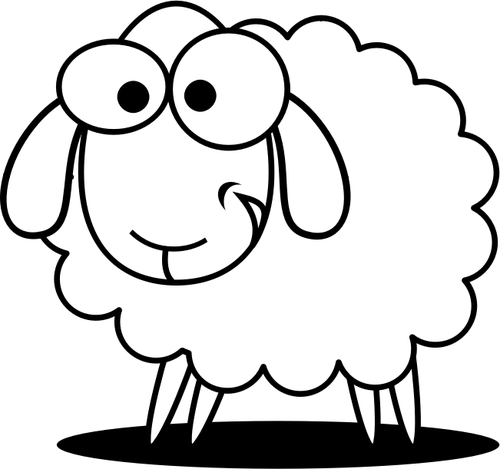
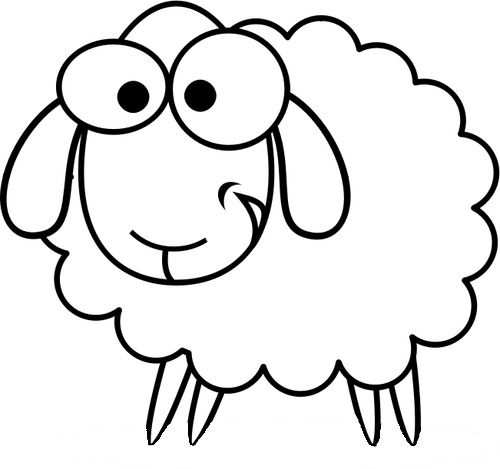
sfx and movement added

Changed region(s): [[0.09, 0.8955, 1.0, 1.0]]

diff --git a/main.py b/main.py
@@ -1,7 +1,17 @@
 from tkinter import *
 from gui_button import GuiButton
+from playsound import playsound
+# using playsound 1.2.2
 
 VERSION = "v1.0.0"
+BLUE1 = "#F9F7F7"
+BLUE2 = "#DBE2EF"
+BLUE3 = "#3F72AF"
+BLUE4 = "#112D4E"
+SFX = "sfx/sheep_noise.mp3"
+
+timer = None
+move_stop = False
 
 
 def hallo_welt():
@@ -9,15 +19,45 @@ def hallo_welt():
     print("Hello World")
 
 
+def check_position() -> bool:
+    global move_stop
+    if canvas_animal.coords(canvas_image)[0] <= -250:
+        canvas_animal.move(canvas_image, 1000, 0)
+        return True
+    elif canvas_animal.coords(canvas_image)[0] == 250 and move_stop is False:
+        move_stop = True
+        playsound(SFX)
+        return True
+    elif canvas_animal.coords(canvas_image)[0] == 250 and move_stop:
+        move_stop = False
+        return False
+    else:
+        return True
+
+
+def move_image():
+    global timer
+    if check_position():
+        # true: timer start and move image
+        canvas_animal.move(canvas_image, -10, 0)
+        print(canvas_animal.coords(canvas_image))
+        timer = root.after(60, func=move_image)
+    else:
+        # false: timer stop and no more image moving
+        root.after_cancel(timer)
+
+
 # GUI creation
 root = Tk()
 root.title(f"Sheepy {VERSION}")
-root.config(padx=50, pady=15)
+root.config(pady=15, bg=BLUE4)
+root.minsize(width=500, height=725)
+root.resizable(width=False, height=False)
 
 # canvas
-canvas_animal = Canvas(root, width=500, height=469)
-canvas_image = PhotoImage(file="images/sheep.png")
-canvas_animal.create_image(254, 237, image=canvas_image)
+img = PhotoImage(file="images/sheep.png")
+canvas_animal = Canvas(root, width=500, height=469, highlightthickness=0, bg=BLUE4)
+canvas_image = canvas_animal.create_image(250, 237, image=img)
 canvas_animal.grid(row=0, column=0, columnspan=3)
 
 # "numpad" frame
@@ -31,8 +71,9 @@ for i in range(3):
         btn_text += 1
         new_button = GuiButton(master=frame_numpad, text=str(btn_text), row=i, column=j, action=hallo_welt)
 
-button_zero = GuiButton(master=frame_numpad, text="0", row=3, column=1, action=hallo_welt)
+button_zero = GuiButton(master=frame_numpad, text="0", row=3, column=1, action=move_image)
 button_clear = GuiButton(master=frame_numpad, text="Clear", row=3, column=0, action=hallo_welt)
 button_send = GuiButton(master=frame_numpad, text="Send", row=3, column=2, action=hallo_welt)
+
 
 root.mainloop()

diff --git a/gui_button.py b/gui_button.py
@@ -1,6 +1,11 @@
 from tkinter import *
 from typing import Callable
 
+BLUE1 = "#F9F7F7"
+BLUE2 = "#DBE2EF"
+BLUE3 = "#3F72AF"
+BLUE4 = "#112D4E"
+
 
 class GuiButton(Button):
 
@@ -9,5 +14,6 @@ class GuiButton(Button):
         super().__init__(master, text=text)
         self.button_image = PhotoImage()
         self.button = Button(master, text=text)
-        self.button.config(height=40, width=40, image=self.button_image, command=action, compound=CENTER)
+        self.button.config(height=40, width=40, image=self.button_image, command=action, compound=CENTER, bg=BLUE3,
+                           fg=BLUE2)
         self.button.grid(row=row, column=column, sticky="wens")
